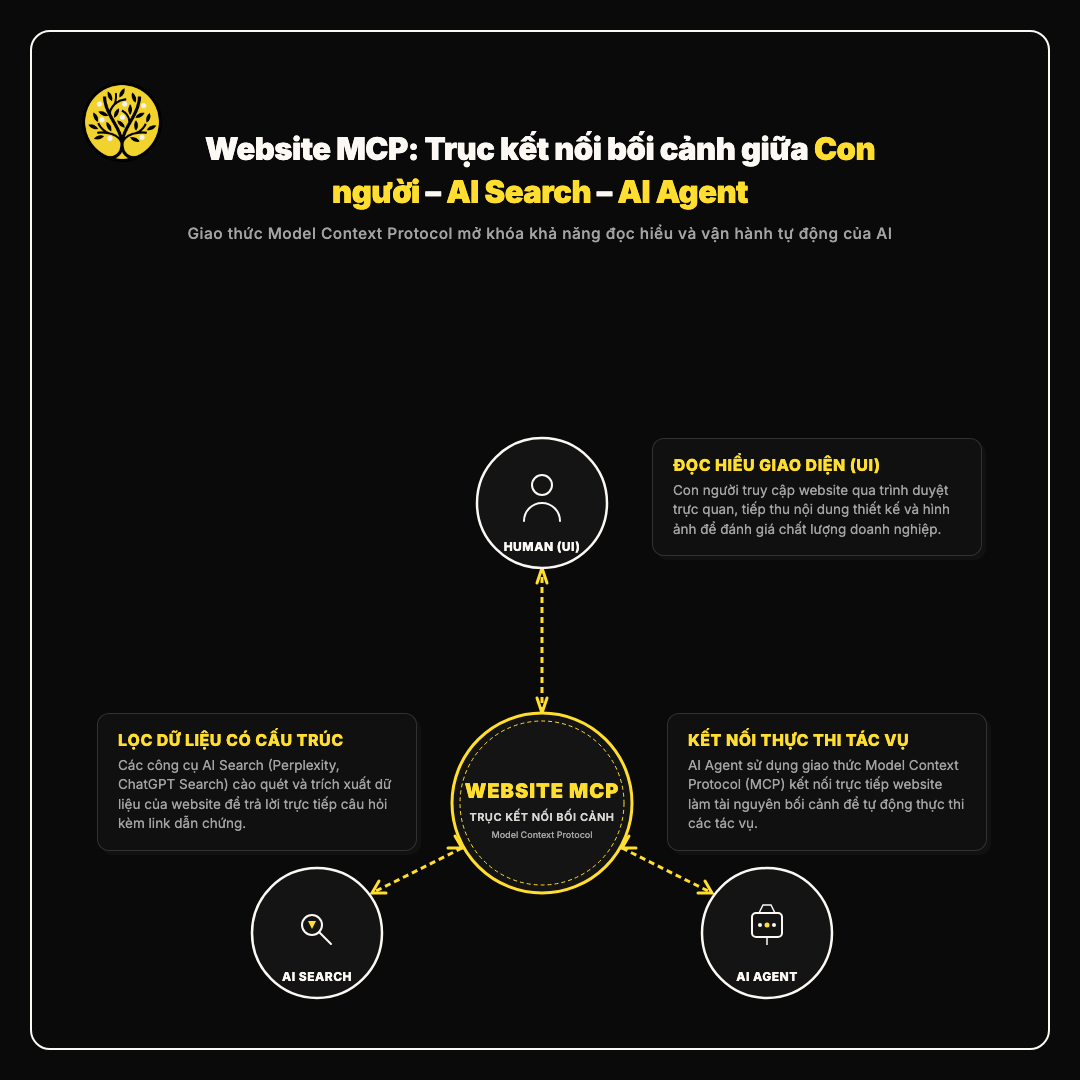
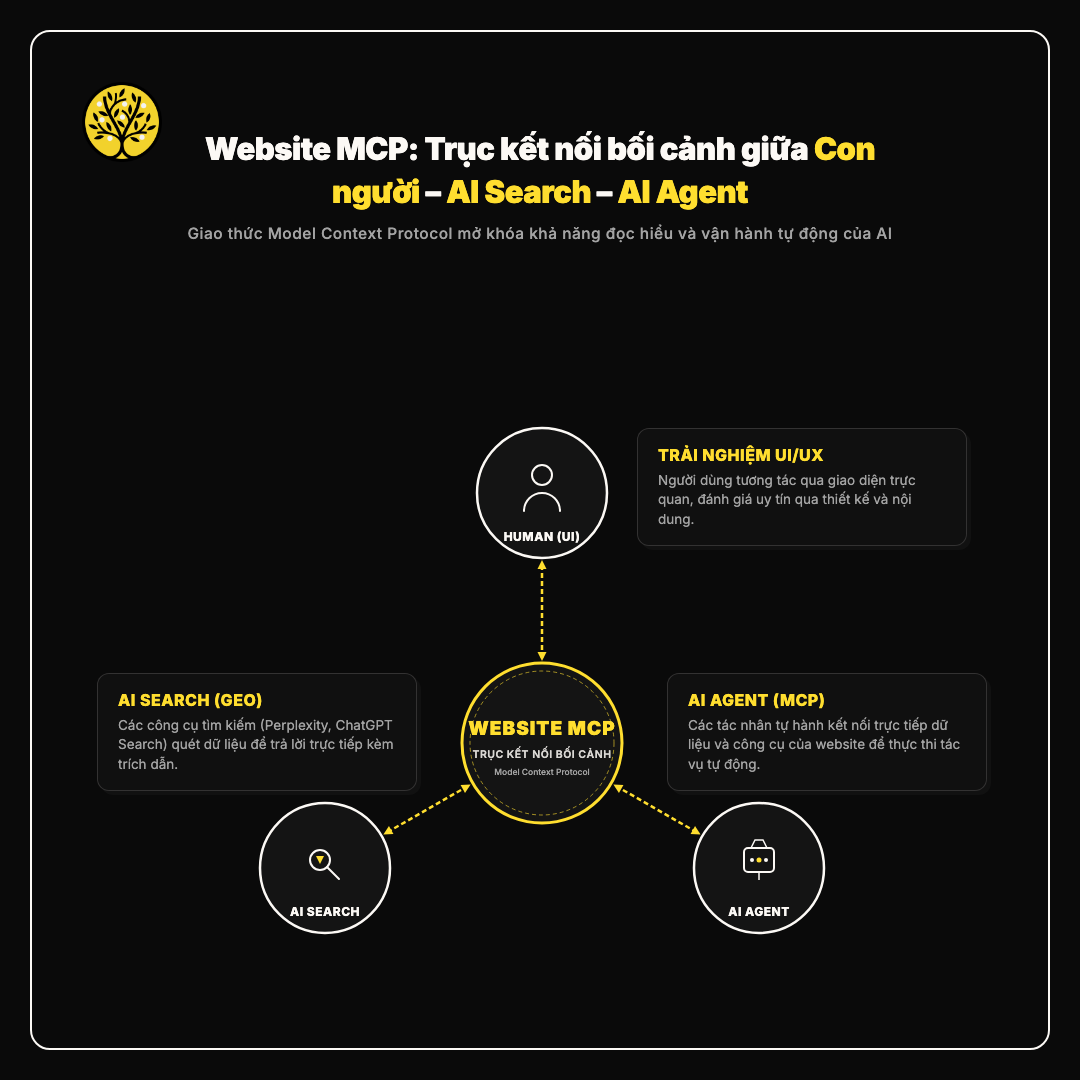
design: optimize layout symmetry and simplify description text

diff --git a/website_mcp_axis.html b/website_mcp_axis.html
@@ -159,70 +159,76 @@
       
       <!-- Central Vector Diagram SVG -->
       <svg width="930" height="750" style="position: absolute; top:0; left:0; z-index: 5;">
+        <defs>
+          <marker id="arrow-forward" viewBox="0 0 10 10" refX="6" refY="5" markerWidth="6" markerHeight="6" orient="auto">
+            <path d="M 2 2 L 8 5 L 2 8 Z" fill="var(--accent-yellow)" />
+          </marker>
+          <marker id="arrow-backward" viewBox="0 0 10 10" refX="4" refY="5" markerWidth="6" markerHeight="6" orient="auto">
+            <path d="M 8 2 L 2 5 L 8 8 Z" fill="var(--accent-yellow)" />
+          </marker>
+        </defs>
+
         <!-- Radial Bidirectional Connections -->
         <!-- 1. Center to Top (Human) -->
-        <line x1="465" y1="450" x2="465" y2="305" stroke="var(--accent-yellow)" stroke-width="3" stroke-dasharray="6 4" />
-        <path d="M 460 435 L 465 450 L 470 435 M 460 320 L 465 305 L 470 320" fill="none" stroke="var(--accent-yellow)" stroke-width="3" stroke-linecap="round" />
+        <line x1="465" y1="395" x2="465" y2="300" stroke="var(--accent-yellow)" stroke-width="2.5" stroke-dasharray="5 3" marker-start="url(#arrow-backward)" marker-end="url(#arrow-forward)" />
 
         <!-- 2. Center to Bottom-Left (AI Search) -->
-        <line x1="385" y1="585" x2="295" y2="630" stroke="var(--accent-yellow)" stroke-width="3" stroke-dasharray="6 4" />
-        <path d="M 378 573 L 385 585 L 371 585 M 309 630 L 295 630 L 302 618" fill="none" stroke="var(--accent-yellow)" stroke-width="3" stroke-linecap="round" />
+        <line x1="391" y1="523" x2="309" y2="570" stroke="var(--accent-yellow)" stroke-width="2.5" stroke-dasharray="5 3" marker-start="url(#arrow-backward)" marker-end="url(#arrow-forward)" />
 
         <!-- 3. Center to Bottom-Right (AI Agent) -->
-        <line x1="545" y1="585" x2="635" y2="630" stroke="var(--accent-yellow)" stroke-width="3" stroke-dasharray="6 4" />
-        <path d="M 552 573 L 545 585 L 559 585 M 621 630 L 635 630 L 628 618" fill="none" stroke="var(--accent-yellow)" stroke-width="3" stroke-linecap="round" />
+        <line x1="539" y1="523" x2="621" y2="570" stroke="var(--accent-yellow)" stroke-width="2.5" stroke-dasharray="5 3" marker-start="url(#arrow-backward)" marker-end="url(#arrow-forward)" />
 
         <!-- Center Hub Node: WEBSITE MCP -->
-        <circle cx="465" cy="540" r="90" fill="#141414" stroke="var(--accent-yellow)" stroke-width="3" />
-        <circle cx="465" cy="540" r="82" fill="none" stroke="var(--accent-yellow)" stroke-width="1" stroke-dasharray="4 3" />
-        <text x="465" y="535" text-anchor="middle" fill="var(--accent-yellow)" font-size="20" font-weight="900" letter-spacing="1px">WEBSITE MCP</text>
-        <text x="465" y="558" text-anchor="middle" fill="var(--text-light)" font-size="11" font-weight="600" opacity="0.85" letter-spacing="0.5px">TRỤC KẾT NỐI BỐI CẢNH</text>
-        <text x="465" y="575" text-anchor="middle" fill="var(--text-muted)" font-size="9" font-weight="500">Model Context Protocol</text>
+        <circle cx="465" cy="480" r="80" fill="#141414" stroke="var(--accent-yellow)" stroke-width="3" />
+        <circle cx="465" cy="480" r="72" fill="none" stroke="var(--accent-yellow)" stroke-width="1" stroke-dasharray="4 3" opacity="0.6" />
+        <text x="465" y="472" text-anchor="middle" fill="var(--accent-yellow)" font-size="19" font-weight="900" letter-spacing="1px">WEBSITE MCP</text>
+        <text x="465" y="495" text-anchor="middle" fill="var(--text-light)" font-size="10.5" font-weight="600" opacity="0.85" letter-spacing="0.5px">TRỤC KẾT NỐI BỐI CẢNH</text>
+        <text x="465" y="512" text-anchor="middle" fill="var(--text-muted)" font-size="8.5" font-weight="500">Model Context Protocol</text>
 
         <!-- Top Node: CON NGƯỜI (HUMAN) -->
-        <circle cx="465" cy="240" r="65" fill="#141414" stroke="var(--text-light)" stroke-width="2.5" />
+        <circle cx="465" cy="230" r="65" fill="#141414" stroke="var(--text-light)" stroke-width="2.5" />
         <!-- User Icon -->
-        <circle cx="465" cy="222" r="10" fill="none" stroke="var(--text-light)" stroke-width="2" />
-        <path d="M 447 258 A 18 18 0 0 1 483 258" fill="none" stroke="var(--text-light)" stroke-width="2" stroke-linecap="round" />
-        <text x="465" y="288" text-anchor="middle" fill="var(--text-light)" font-size="12" font-weight="800" letter-spacing="0.5px">HUMAN (UI)</text>
+        <circle cx="465" cy="212" r="10" fill="none" stroke="var(--text-light)" stroke-width="2" />
+        <path d="M 447 248 A 18 18 0 0 1 483 248" fill="none" stroke="var(--text-light)" stroke-width="2" stroke-linecap="round" />
+        <text x="465" y="278" text-anchor="middle" fill="var(--text-light)" font-size="12" font-weight="800" letter-spacing="0.5px">HUMAN (UI)</text>
 
         <!-- Bottom-Left Node: AI SEARCH -->
-        <circle cx="240" cy="670" r="65" fill="#141414" stroke="var(--text-light)" stroke-width="2.5" />
+        <circle cx="248" cy="605" r="65" fill="#141414" stroke="var(--text-light)" stroke-width="2.5" />
         <!-- Search Icon -->
-        <circle cx="235" cy="662" r="10" fill="none" stroke="var(--text-light)" stroke-width="2" />
-        <line x1="242" y1="669" x2="254" y2="681" stroke="var(--text-light)" stroke-width="2" stroke-linecap="round" />
-        <path d="M 231 658 L 239 658 L 235 666 Z" fill="var(--accent-yellow)" />
-        <text x="240" y="718" text-anchor="middle" fill="var(--text-light)" font-size="12" font-weight="800" letter-spacing="0.5px">AI SEARCH</text>
+        <circle cx="243" cy="597" r="10" fill="none" stroke="var(--text-light)" stroke-width="2" />
+        <line x1="250" y1="604" x2="262" y2="616" stroke="var(--text-light)" stroke-width="2" stroke-linecap="round" />
+        <path d="M 239 593 L 247 593 L 243 601 Z" fill="var(--accent-yellow)" />
+        <text x="248" y="653" text-anchor="middle" fill="var(--text-light)" font-size="12" font-weight="800" letter-spacing="0.5px">AI SEARCH</text>
 
         <!-- Bottom-Right Node: AI AGENT -->
-        <circle cx="690" cy="670" r="65" fill="#141414" stroke="var(--text-light)" stroke-width="2.5" />
+        <circle cx="682" cy="605" r="65" fill="#141414" stroke="var(--text-light)" stroke-width="2.5" />
         <!-- Robot Node Icon -->
-        <rect x="675" y="650" width="30" height="24" rx="4" fill="none" stroke="var(--text-light)" stroke-width="2" />
-        <circle cx="683" cy="662" r="2" fill="var(--text-light)" />
-        <circle cx="697" cy="662" r="2" fill="var(--text-light)" />
-        <path d="M 682 650 L 686 642 L 694 642 L 698 650" fill="none" stroke="var(--text-light)" stroke-width="1.5" stroke-linecap="round" />
-        <circle cx="690" cy="662" r="2.5" fill="var(--accent-yellow)" />
-        <line x1="690" y1="674" x2="690" y2="682" stroke="var(--text-light)" stroke-width="1.5" />
-        <text x="690" y="718" text-anchor="middle" fill="var(--text-light)" font-size="12" font-weight="800" letter-spacing="0.5px">AI AGENT</text>
+        <rect x="667" y="585" width="30" height="24" rx="4" fill="none" stroke="var(--text-light)" stroke-width="2" />
+        <circle cx="675" cy="597" r="2" fill="var(--text-light)" />
+        <circle cx="689" cy="597" r="2" fill="var(--text-light)" />
+        <path d="M 674 585 L 678 577 L 686 577 L 690 585" fill="none" stroke="var(--text-light)" stroke-width="1.5" stroke-linecap="round" />
+        <circle cx="682" cy="597" r="2.5" fill="var(--accent-yellow)" />
+        <line x1="682" y1="609" x2="682" y2="617" stroke="var(--text-light)" stroke-width="1.5" />
+        <text x="682" y="653" text-anchor="middle" fill="var(--text-light)" font-size="12" font-weight="800" letter-spacing="0.5px">AI AGENT</text>
       </svg>
 
       <!-- Description Cards positioned next to the nodes -->
       <!-- Top Card (aligned with Top Node) -->
-      <div class="desc-card" style="left: 575px; top: 175px; width: 330px;">
-        <h3>Đọc Hiểu Giao Diện (UI)</h3>
-        <p>Con người truy cập website qua trình duyệt trực quan, tiếp thu nội dung thiết kế và hình ảnh để đánh giá chất lượng doanh nghiệp.</p>
+      <div class="desc-card" style="left: 560px; top: 165px; width: 330px;">
+        <h3>Trải nghiệm UI/UX</h3>
+        <p>Người dùng tương tác qua giao diện trực quan, đánh giá uy tín qua thiết kế và nội dung.</p>
       </div>
 
       <!-- Bottom-Left Card (aligned with Bottom-Left Node) -->
-      <div class="desc-card" style="left: 20px; top: 450px; width: 320px;">
-        <h3>Lọc Dữ Liệu Có Cấu Trúc</h3>
-        <p>Các công cụ AI Search (Perplexity, ChatGPT Search) cào quét và trích xuất dữ liệu của website để trả lời trực tiếp câu hỏi kèm link dẫn chứng.</p>
+      <div class="desc-card" style="left: 20px; top: 410px; width: 320px;">
+        <h3>AI Search (GEO)</h3>
+        <p>Các công cụ tìm kiếm (Perplexity, ChatGPT Search) quét dữ liệu để trả lời trực tiếp kèm trích dẫn.</p>
       </div>
 
       <!-- Bottom-Right Card (aligned with Bottom-Right Node) -->
-      <div class="desc-card" style="left: 590px; top: 450px; width: 320px;">
-        <h3>Kết Nối Thực Thi Tác Vụ</h3>
-        <p>AI Agent sử dụng giao thức Model Context Protocol (MCP) kết nối trực tiếp website làm tài nguyên bối cảnh để tự động thực thi các tác vụ.</p>
+      <div class="desc-card" style="left: 590px; top: 410px; width: 320px;">
+        <h3>AI Agent (MCP)</h3>
+        <p>Các tác nhân tự hành kết nối trực tiếp dữ liệu và công cụ của website để thực thi tác vụ tự động.</p>
       </div>
 
     </div>